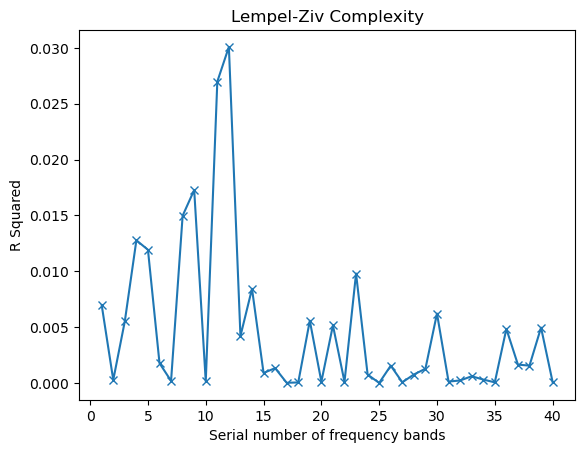
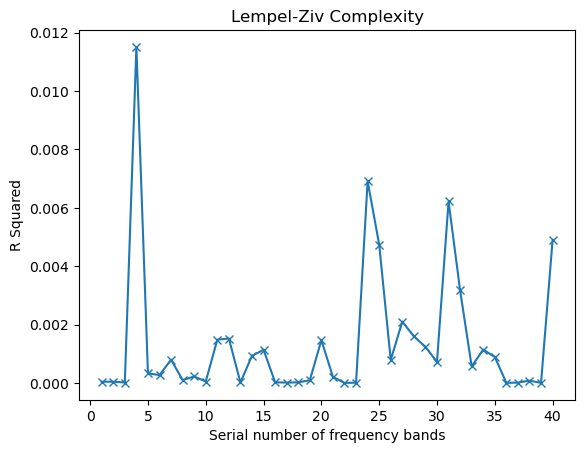
fixed logic error in trimming data step

diff --git a/utils.py b/utils.py
@@ -95,6 +95,13 @@ def associate_features_with_BIS(feature_array, bis_data, window_length, window_o
             feature_data = feature_data[-min_length:]
             bis_flat = bis_flat[-min_length:]
 
+            valid_indices = [index for index, value in enumerate(bis_flat) if value != -1] #BIS data contains values of -1, assuming this means no valid BIS value was produced at these points
+            feature_data = [feature_data[j] for j in valid_indices if j < len(feature_data)]
+            bis_flat = [bis_flat[j] for j in valid_indices]
+
+            print(f'length feature data: {len(feature_data)}')
+            print(f'length of bis_flat: {len(bis_flat)}')
+
             frequency_band_values.extend(feature_data)
             bis_values.extend(bis_flat)
         frequency_band_output[frequency_band] = [frequency_band_values, bis_values]
@@ -113,6 +120,7 @@ def linear_regression(feature_bis_dict):
         model = LinearRegression()
         data[0] = np.array(data[0]).reshape(-1, 1)
         data[1] = np.array(data[1])
+        print(f'frequency band: {frequency_band}, bis shape: {data[1].shape}')
         model.fit(data[0], data[1])
 
         predicted_values = model.predict(data[0])

diff --git a/README.md b/README.md
@@ -6,4 +6,6 @@ This is my first attempt at anything related to signal processing or time-series
 
 Graphs displaying the coefficient of determination for each extracted feature for each frequency band can be found in the Graphs folder. The x-axis of the graphs represents the frequency bands defined in fft.py with indices 1-20 representing the amplitude of these frequency bands and indices 21-40 representing the power.
 
+The correlation values produced were poor. In light of this I will thoroughly review the code for bugs, investigate if improved correlation is present at varying BIS values, and check if the data can be denoised any further. 
+
 
